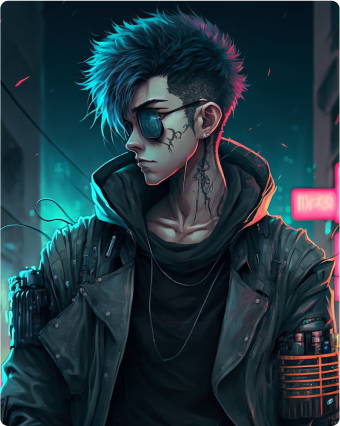
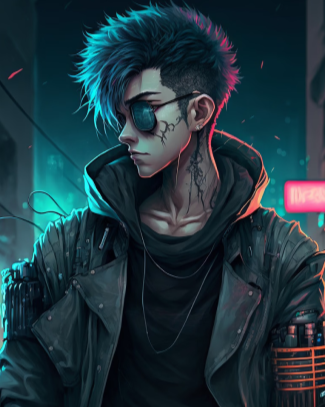
Popular Nfts Section Done

diff --git a/index.html b/index.html
@@ -78,6 +78,154 @@
         </div>
     </section>
     <!--Hero Section End-->
+
+    <!-- Popular NFTs Section Start-->
+    <section class="container-fluid">
+        <div class="row">
+            <h2 class="text-center mb-5">Most Popular NFTs</h2>
+            <div class="col-12 mb-5">
+                <div class="row justify-content-center popular_nfts_nav">
+                    <div class="col-2">
+                        <a href="">All</a>
+                    </div>
+                    <div class="col-3 col-lg-2">
+                        <a href="">Hape prime</a>
+                    </div>
+                    <div class="col-3 col-lg-2">
+                        <a href="">Lazy Lions</a>
+                    </div>
+                    <div class="col-3 col-lg-2">
+                        <a href="">Peaceful Ape</a>
+                    </div>
+                </div>
+            </div>
+
+            <div class="row popular_nfts_imgs justify-content-center my-5 px-md-5">
+                <div class="col-md-4 item">
+                    <img src="IMG/popular-ntfs 2.png" class="img-fluid" alt="">
+                    <div class="row my-4 mx-4 col-xxl-6">
+                        <div class="col-12 justify-content-between d-flex">
+                            <h5>Cyber Samurai #111</h5>
+                            <p class="d-flex align-items-center justify-content-center"><img
+                                    src="IMG/Icons/Ethereum.png" alt="">8.5</p>
+                        </div>
+                        <div class="col-6 mb-4">
+                            <div class="row">
+                                <div class="col-2"><img src="IMG/Icons/Christmas Star.png" alt=""></div>
+                                <div class="col-2"><img src="IMG/Icons/Christmas Star.png" alt=""></div>
+                                <div class="col-2"><img src="IMG/Icons/Christmas Star.png" alt=""></div>
+                                <div class="col-2"><img src="IMG/Icons/Christmas Star (1).png" alt=""></div>
+                                <div class="col-2"><img src="IMG/Icons/Christmas Star (1).png" alt=""></div>
+                            </div>
+                        </div>
+                        <button class="but_product_btn">Buy Product</button>
+                    </div>
+                </div>
+
+                <div class="col-md-4 item">
+                    <img src="IMG/popular-ntfs 3.png" class="img-fluid" alt="">
+                    <div class="row my-4 mx-4 col-xxl-6">
+                        <div class="col-12 justify-content-between d-flex">
+                            <h5>Cyber Samurai #222</h5>
+                            <p class="d-flex align-items-center justify-content-center"><img
+                                    src="IMG/Icons/Ethereum.png" alt="">7.5</p>
+                        </div>
+                        <div class="col-6 mb-4">
+                            <div class="row">
+                                <div class="col-2"><img src="IMG/Icons/Christmas Star.png" alt=""></div>
+                                <div class="col-2"><img src="IMG/Icons/Christmas Star.png" alt=""></div>
+                                <div class="col-2"><img src="IMG/Icons/Christmas Star.png" alt=""></div>
+                                <div class="col-2"><img src="IMG/Icons/Christmas Star (1).png" alt=""></div>
+                                <div class="col-2"><img src="IMG/Icons/Christmas Star (1).png" alt=""></div>
+                            </div>
+                        </div>
+                    </div>
+                </div>
+
+                <div class="col-md-4 item">
+                    <img src="IMG/popular-ntfs 1.png" class="img-fluid" alt="">
+                    <div class="row my-4 mx-4 col-xxl-6">
+                        <div class="col-12 justify-content-between d-flex">
+                            <h5>Cyber Samurai #333</h5>
+                            <p class="d-flex align-items-center justify-content-center"><img
+                                    src="IMG/Icons/Ethereum.png" alt="">15.5</p>
+                        </div>
+                        <div class="col-6 mb-4">
+                            <div class="row">
+                                <div class="col-2"><img src="IMG/Icons/Christmas Star.png" alt=""></div>
+                                <div class="col-2"><img src="IMG/Icons/Christmas Star.png" alt=""></div>
+                                <div class="col-2"><img src="IMG/Icons/Christmas Star.png" alt=""></div>
+                                <div class="col-2"><img src="IMG/Icons/Christmas Star (1).png" alt=""></div>
+                                <div class="col-2"><img src="IMG/Icons/Christmas Star (1).png" alt=""></div>
+                            </div>
+                        </div>
+                    </div>
+                </div>
+
+                <div class="col-md-4 item">
+                    <img src="IMG/popular-ntfs 4.png" class="img-fluid" alt="">
+                    <div class="row my-4 mx-4 col-xxl-6">
+                        <div class="col-12 justify-content-between d-flex">
+                            <h5>Cyber Samurai #444</h5>
+                            <p class="d-flex align-items-center justify-content-center"><img
+                                    src="IMG/Icons/Ethereum.png" alt="">15.5</p>
+                        </div>
+                        <div class="col-6 mb-4">
+                            <div class="row">
+                                <div class="col-2"><img src="IMG/Icons/Christmas Star.png" alt=""></div>
+                                <div class="col-2"><img src="IMG/Icons/Christmas Star.png" alt=""></div>
+                                <div class="col-2"><img src="IMG/Icons/Christmas Star.png" alt=""></div>
+                                <div class="col-2"><img src="IMG/Icons/Christmas Star (1).png" alt=""></div>
+                                <div class="col-2"><img src="IMG/Icons/Christmas Star (1).png" alt=""></div>
+                            </div>
+                        </div>
+                    </div>
+                </div>
+
+                <div class="col-md-4 item">
+                    <img src="IMG/popular-ntfs 5.png" class="img-fluid" alt="">
+                    <div class="row my-4 mx-4 col-xxl-6">
+                        <div class="col-12 justify-content-between d-flex">
+                            <h5>Cyber Samurai #555</h5>
+                            <p class="d-flex align-items-center justify-content-center"><img
+                                    src="IMG/Icons/Ethereum.png" alt="">15.5</p>
+                        </div>
+                        <div class="col-6 mb-4">
+                            <div class="row">
+                                <div class="col-2"><img src="IMG/Icons/Christmas Star.png" alt=""></div>
+                                <div class="col-2"><img src="IMG/Icons/Christmas Star.png" alt=""></div>
+                                <div class="col-2"><img src="IMG/Icons/Christmas Star.png" alt=""></div>
+                                <div class="col-2"><img src="IMG/Icons/Christmas Star (1).png" alt=""></div>
+                                <div class="col-2"><img src="IMG/Icons/Christmas Star (1).png" alt=""></div>
+                            </div>
+                        </div>
+                    </div>
+                </div>
+
+                <div class="col-md-4 item">
+                    <img src="IMG/popular-ntfs 6.png" class="img-fluid" alt="">
+                    <div class="row my-4 mx-4 col-xxl-6">
+                        <div class="col-12 justify-content-between d-flex">
+                            <h5>Cyber Samurai #666</h5>
+                            <p class="d-flex align-items-center justify-content-center"><img
+                                    src="IMG/Icons/Ethereum.png" alt="">15.5</p>
+                        </div>
+                        <div class="col-6 mb-4">
+                            <div class="row">
+                                <div class="col-2"><img src="IMG/Icons/Christmas Star.png" alt=""></div>
+                                <div class="col-2"><img src="IMG/Icons/Christmas Star.png" alt=""></div>
+                                <div class="col-2"><img src="IMG/Icons/Christmas Star.png" alt=""></div>
+                                <div class="col-2"><img src="IMG/Icons/Christmas Star (1).png" alt=""></div>
+                                <div class="col-2"><img src="IMG/Icons/Christmas Star (1).png" alt=""></div>
+                            </div>
+                        </div>
+                    </div>
+                </div>
+                <button class="explore_nfts_btn">Explore All NFTs</button>
+            </div>
+        </div>
+    </section>
+    <!-- Popular NFTs Section End-->
     <script src="JS/bootstrap.min.js"></script>
 </body>
 

diff --git a/CSS/style.css b/CSS/style.css
@@ -131,9 +131,56 @@ body {
 
 /* Hero Section End */
 
+/* Popular NFTs Section Start */
+.popular_nfts_nav a {
+    color: #fff;
+    font-family: 'Nunito';
+    font-size: 1.4rem;
+    opacity: 0.8;
+    font-weight: 500;
+    line-height: 118.5%;
+    text-decoration: none;
+}
 
+.popular_nfts_nav {
+    text-align: center;
+}
 
+.item>img {
+    padding: 30px;
+    border-radius: 16px;
+    background: rgba(255, 255, 255, 0.03);
+}
 
+/* Popular NFTs Section End */
+.but_product_btn {
+    padding: 12px 40px;
+    outline: none;
+    border: none;
+    border-radius: 8px;
+    color: #fff;
+    background: linear-gradient(104deg, #DF1CFF -25.59%, #EA0070 138%);
+    box-shadow: 0px 9px 100px 0px rgba(208, 17, 204, 0.35);
+}
+
+.but_product_btn:hover {
+    background: linear-gradient(104deg, #ac1cff -25.59%, #ea000c 138%);
+}
+
+.explore_nfts_btn {
+    width: 300px;
+    padding: 12px 40px;
+    border-radius: 8px;
+    border: 1.5px solid #E50AA7;
+    background: rgba(255, 255, 255, 0.05);
+    color: #fff;
+    box-shadow: 0px 16px 80px 0px rgba(208, 17, 204, 0.15);
+    transition: all ease 0.4s;
+}
+
+.explore_nfts_btn:hover {
+    background: linear-gradient(104deg, #DF1CFF -25.59%, #EA0070 138%);
+}
 
 /* Responsive Section Start */
 
@@ -144,6 +191,17 @@ body {
 
     .nft_market_overview h4 {
         font-size: 1.2rem;
+    }
+
+    .popular_nfts_nav a {
+        font-size: 1rem;
+    }
+
+    .item {
+        display: flex;
+        justify-content: center;
+        align-items: center;
+        flex-direction: column;
     }
 }
 
